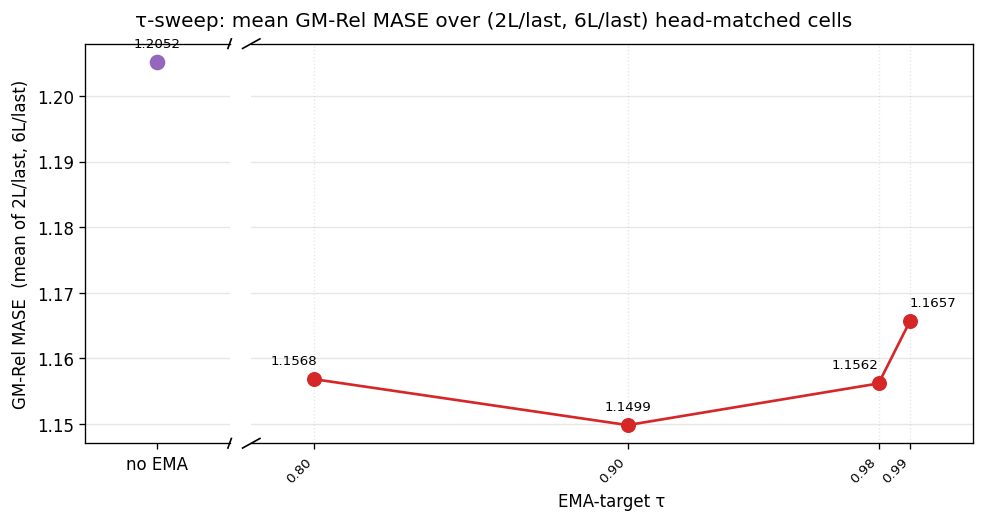
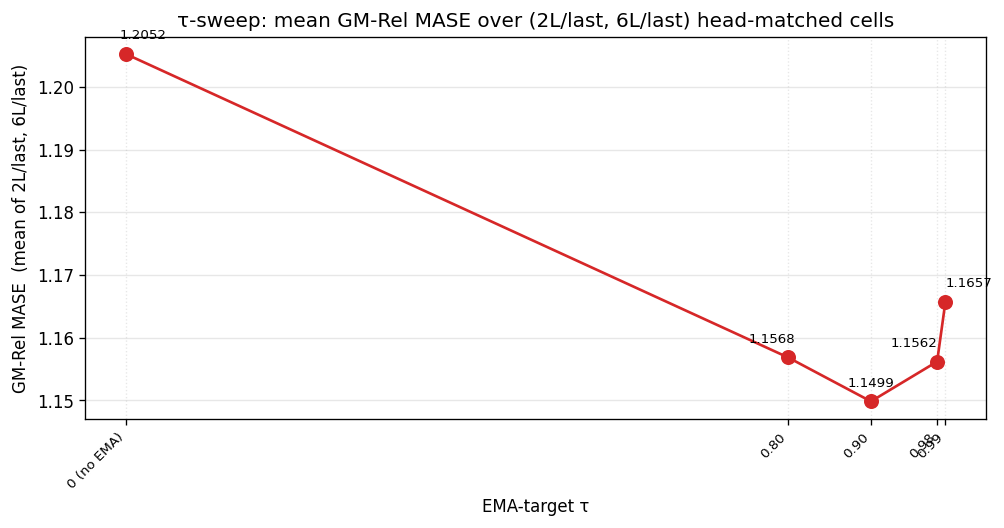
report(#357): 4-panel uniformity + connected tau-sweep (no-EMA at τ=0)

diff --git a/experiments/2026-06-20_lejepa_sigreg/scripts/build_report_tau098.py b/experiments/2026-06-20_lejepa_sigreg/scripts/build_report_tau098.py
@@ -175,66 +175,39 @@ def plot_uniformity(this_csv: Path, sigreg099_csv: Path | None,
                     noema_csv: Path | None,
                     tau090_csv: Path | None, tau080_csv: Path | None, out: Path):
     s = pd.read_csv(this_csv)
-    fig, axes = plt.subplots(1, 2, figsize=(13, 4.5), sharey=True)
-    new_lab = ARM_LABEL["sigreg_enc3_tau098"]
-    sig_lab = ARM_LABEL["sigreg_enc3_tau099"]
-    ema_lab = ARM_LABEL["ema_enc3"]
-    cpc_lab = ARM_LABEL["cpc_enc3"]
-    noe_lab = ARM_LABEL["sigreg_enc3_noema"]
-    t090_lab = ARM_LABEL["sigreg_enc3_tau090"]
-    t080_lab = ARM_LABEL["sigreg_enc3_tau080"]
-    for ax, kind in zip(axes, ("batch", "temporal")):
-        ax.plot(s["step"], s[f"u_{kind}"].rolling(50, min_periods=1).mean(),
-                label=f"u_{kind} (h_t) — {new_lab}", color=ARM_COLOR["sigreg_enc3_tau098"], lw=1.5)
-        ax.plot(s["step"], s[f"u_{kind}_e"].rolling(50, min_periods=1).mean(),
-                label=f"u_{kind}_e (e_t) — {new_lab}", color=ARM_COLOR["sigreg_enc3_tau098"], lw=1.5, ls="--")
-        if sigreg099_csv and sigreg099_csv.exists():
-            r = pd.read_csv(sigreg099_csv)
-            if f"u_{kind}" in r.columns:
-                ax.plot(r["step"], r[f"u_{kind}"].rolling(50, min_periods=1).mean(),
-                        label=f"u_{kind} (h_t) — {sig_lab}", color=ARM_COLOR["sigreg_enc3_tau099"], lw=1.0)
-            if f"u_{kind}_e" in r.columns:
-                ax.plot(r["step"], r[f"u_{kind}_e"].rolling(50, min_periods=1).mean(),
-                        label=f"u_{kind}_e (e_t) — {sig_lab}", color=ARM_COLOR["sigreg_enc3_tau099"], lw=1.0, ls="--")
-        if tau090_csv and tau090_csv.exists():
-            t = pd.read_csv(tau090_csv)
-            if f"u_{kind}" in t.columns:
-                ax.plot(t["step"], t[f"u_{kind}"].rolling(50, min_periods=1).mean(),
-                        label=f"u_{kind} (h_t) — {t090_lab}", color=ARM_COLOR["sigreg_enc3_tau090"], lw=1.0)
-            if f"u_{kind}_e" in t.columns:
-                ax.plot(t["step"], t[f"u_{kind}_e"].rolling(50, min_periods=1).mean(),
-                        label=f"u_{kind}_e (e_t) — {t090_lab}", color=ARM_COLOR["sigreg_enc3_tau090"], lw=1.0, ls="--")
-        if tau080_csv and tau080_csv.exists():
-            t = pd.read_csv(tau080_csv)
-            if f"u_{kind}" in t.columns:
-                ax.plot(t["step"], t[f"u_{kind}"].rolling(50, min_periods=1).mean(),
-                        label=f"u_{kind} (h_t) — {t080_lab}", color=ARM_COLOR["sigreg_enc3_tau080"], lw=1.0)
-            if f"u_{kind}_e" in t.columns:
-                ax.plot(t["step"], t[f"u_{kind}_e"].rolling(50, min_periods=1).mean(),
-                        label=f"u_{kind}_e (e_t) — {t080_lab}", color=ARM_COLOR["sigreg_enc3_tau080"], lw=1.0, ls="--")
-        if noema_csv and noema_csv.exists():
-            n = pd.read_csv(noema_csv)
-            if f"u_{kind}" in n.columns:
-                ax.plot(n["step"], n[f"u_{kind}"].rolling(50, min_periods=1).mean(),
-                        label=f"u_{kind} (h_t) — {noe_lab}", color=ARM_COLOR["sigreg_enc3_noema"], lw=1.0)
-            if f"u_{kind}_e" in n.columns:
-                ax.plot(n["step"], n[f"u_{kind}_e"].rolling(50, min_periods=1).mean(),
-                        label=f"u_{kind}_e (e_t) — {noe_lab}", color=ARM_COLOR["sigreg_enc3_noema"], lw=1.0, ls="--")
-        if ema_csv and ema_csv.exists():
-            e = pd.read_csv(ema_csv)
-            if f"u_{kind}" in e.columns:
-                ax.plot(e["step"], e[f"u_{kind}"].rolling(50, min_periods=1).mean(),
-                        label=f"u_{kind} (h_t) — {ema_lab}", color=ARM_COLOR["ema_enc3"], lw=1.0)
-        if cpc_csv and cpc_csv.exists():
-            c = pd.read_csv(cpc_csv)
-            if f"u_{kind}" in c.columns:
-                ax.plot(c["step"], c[f"u_{kind}"].rolling(50, min_periods=1).mean(),
-                        label=f"u_{kind} (h_t) — {cpc_lab}", color=ARM_COLOR["cpc_enc3"], lw=1.0)
-        ax.set_xlabel("step")
-        ax.set_ylabel("effective dimensionality")
-        ax.set_title(f"u_{kind} ({'cross-batch' if kind=='batch' else 'cross-time'})")
+    fig, axes = plt.subplots(2, 2, figsize=(13, 9), sharex=True, sharey=True)
+    arms = [
+        ("sigreg_enc3_tau099", sigreg099_csv, 1.0),
+        ("sigreg_enc3_tau098", this_csv, 1.5),
+        ("sigreg_enc3_tau090", tau090_csv, 1.0),
+        ("sigreg_enc3_tau080", tau080_csv, 1.0),
+        ("sigreg_enc3_noema",  noema_csv,   1.0),
+        ("ema_enc3",           ema_csv,     1.0),
+        ("cpc_enc3",           cpc_csv,     1.0),
+    ]
+    panels = [
+        (0, 0, "batch",    "",  "u_batch (h_t)"),
+        (0, 1, "batch",    "_e","u_batch (e_t)"),
+        (1, 0, "temporal", "",  "u_temporal (h_t)"),
+        (1, 1, "temporal", "_e","u_temporal (e_t)"),
+    ]
+    for r, c, kind, suffix, title in panels:
+        ax = axes[r][c]
+        col = f"u_{kind}{suffix}"
+        for arm_key, csv_path, lw in arms:
+            if csv_path is None or not csv_path.exists():
+                continue
+            d = pd.read_csv(csv_path)
+            if col not in d.columns:
+                continue
+            ax.plot(d["step"], d[col].rolling(50, min_periods=1).mean(),
+                    label=ARM_LABEL[arm_key], color=ARM_COLOR[arm_key], lw=lw)
+        ax.set_title(title)
         ax.set_ylim(0, 1)
-        ax.legend(fontsize=6.5); ax.grid(alpha=0.3)
+        ax.grid(alpha=0.3)
+        if r == 1: ax.set_xlabel("step")
+        if c == 0: ax.set_ylabel("effective dimensionality")
+    axes[0][0].legend(fontsize=7, loc="lower right")
     fig.suptitle("Uniformity (cos²-based dim_usage; clipped to [1/K, 1])")
     fig.tight_layout(); fig.savefig(out, dpi=120); plt.close(fig)
 

diff --git a/experiments/2026-06-20_lejepa_sigreg/scripts/plot_tau_sweep_last_avg.py b/experiments/2026-06-20_lejepa_sigreg/scripts/plot_tau_sweep_last_avg.py
@@ -1,10 +1,8 @@
 #!/usr/bin/env python3
-# #357 τ-sweep plot: x = EMA-target τ, y = mean of (2L/last, 6L/last) GM-Rel MASE.
-# Five B=512 SIGReg arms. no-EMA is placed at x=0 with a broken x-axis between
-# x=0 and x=0.80 so the discontinuity in τ is visible.
+# #357 τ-sweep plot: x = EMA-target τ (with no-EMA at τ=0), y = mean of
+# (2L/last, 6L/last) GM-Rel MASE. Five B=512 SIGReg arms on one connected line.
 import argparse
 import csv
-from collections import defaultdict
 from pathlib import Path
 
 import matplotlib
@@ -13,11 +11,11 @@ import matplotlib.pyplot as plt
 
 
 ARM_TAU = {
-    "sigreg_enc3_tau099": 0.99,
-    "sigreg_enc3_tau098": 0.98,
-    "sigreg_enc3_tau090": 0.90,
-    "sigreg_enc3_tau080": 0.80,
     "sigreg_enc3_noema":  0.00,
+    "sigreg_enc3_tau080": 0.80,
+    "sigreg_enc3_tau090": 0.90,
+    "sigreg_enc3_tau098": 0.98,
+    "sigreg_enc3_tau099": 0.99,
 }
 
 
@@ -45,60 +43,26 @@ def main():
     plots.mkdir(parents=True, exist_ok=True)
 
     data = load_last_avg(gm)
-    # left panel: no-EMA at x=0; right panel: τ ∈ {0.80, 0.90, 0.98, 0.99}.
-    left = [(0.0, data["sigreg_enc3_noema"][1])]
-    right = sorted(
-        (data[a] for a in data if a != "sigreg_enc3_noema"),
-        key=lambda xy: xy[0],
-    )
+    pts = sorted((data[a] for a in data), key=lambda xy: xy[0])
+    xs = [x for x, _ in pts]
+    ys = [y for _, y in pts]
 
-    fig, (axL, axR) = plt.subplots(
-        1, 2, figsize=(8.5, 4.5), sharey=True,
-        gridspec_kw={"width_ratios": [1, 5], "wspace": 0.05},
-    )
-
-    axL.scatter([x for x, _ in left], [y for _, y in left],
-                color="#9467bd", s=70, zorder=3, label="no EMA-target")
-    for x, y in left:
-        axL.annotate(f"{y:.4f}", (x, y), textcoords="offset points",
-                     xytext=(0, 9), ha="center", fontsize=8)
-    axL.set_xlim(-0.05, 0.05)
-    axL.set_xticks([0.0])
-    axL.set_xticklabels(["no EMA"])
-    axL.set_ylabel("GM-Rel MASE  (mean of 2L/last, 6L/last)")
-    axL.grid(axis="y", alpha=0.3)
-    axL.spines["right"].set_visible(False)
-
-    xs = [x for x, _ in right]
-    ys = [y for _, y in right]
-    axR.plot(xs, ys, marker="o", color="#d62728", lw=1.6,
-             markersize=8, zorder=3, label="SIGReg + EMA-target, B=512")
-    label_offsets = {0.80: (-12, 9), 0.90: (0, 9), 0.98: (-14, 9), 0.99: (14, 9)}
-    for x, y in right:
+    fig, ax = plt.subplots(figsize=(8.5, 4.5))
+    ax.plot(xs, ys, marker="o", color="#d62728", lw=1.6, markersize=8, zorder=3)
+    label_offsets = {0.00: (10, 9), 0.80: (-10, 9), 0.90: (0, 9), 0.98: (-14, 9), 0.99: (14, 9)}
+    for x, y in pts:
         dx, dy = label_offsets.get(x, (0, 9))
-        axR.annotate(f"{y:.4f}", (x, y), textcoords="offset points",
-                     xytext=(dx, dy), ha="center", fontsize=8)
-    axR.set_xlim(0.78, 1.01)
-    axR.set_xticks([0.80, 0.90, 0.98, 0.99])
-    axR.set_xticklabels(["0.80", "0.90", "0.98", "0.99"], rotation=45, ha="right")
-    axR.set_xlabel("EMA-target τ")
-    axR.grid(axis="y", alpha=0.3)
-    axR.grid(axis="x", alpha=0.3, ls=":")
-    axR.spines["left"].set_visible(False)
-    axR.tick_params(axis="y", which="both", left=False)
-    axR.tick_params(axis="x", labelsize=8)
-
-    # axis break marks
-    d = 0.012
-    kw = dict(transform=axL.transAxes, color="k", clip_on=False, lw=1)
-    axL.plot((1 - d, 1 + d), (-d, +d), **kw)
-    axL.plot((1 - d, 1 + d), (1 - d, 1 + d), **kw)
-    kw = dict(transform=axR.transAxes, color="k", clip_on=False, lw=1)
-    axR.plot((-d, +d), (-d, +d), **kw)
-    axR.plot((-d, +d), (1 - d, 1 + d), **kw)
-
-    fig.suptitle("τ-sweep: mean GM-Rel MASE over (2L/last, 6L/last) head-matched cells")
-    fig.subplots_adjust(left=0.1, right=0.97, top=0.92, bottom=0.18, wspace=0.05)
+        ax.annotate(f"{y:.4f}", (x, y), textcoords="offset points",
+                    xytext=(dx, dy), ha="center", fontsize=8)
+    ax.set_xticks([0.00, 0.80, 0.90, 0.98, 0.99])
+    ax.set_xticklabels(["0 (no EMA)", "0.80", "0.90", "0.98", "0.99"], rotation=45, ha="right")
+    ax.set_xlabel("EMA-target τ")
+    ax.set_ylabel("GM-Rel MASE  (mean of 2L/last, 6L/last)")
+    ax.grid(axis="y", alpha=0.3)
+    ax.grid(axis="x", alpha=0.3, ls=":")
+    ax.tick_params(axis="x", labelsize=8)
+    ax.set_title("τ-sweep: mean GM-Rel MASE over (2L/last, 6L/last) head-matched cells")
+    fig.tight_layout()
     out = plots / "tau_sweep_last_avg.png"
     fig.savefig(out, dpi=120, bbox_inches="tight")
     plt.close(fig)
